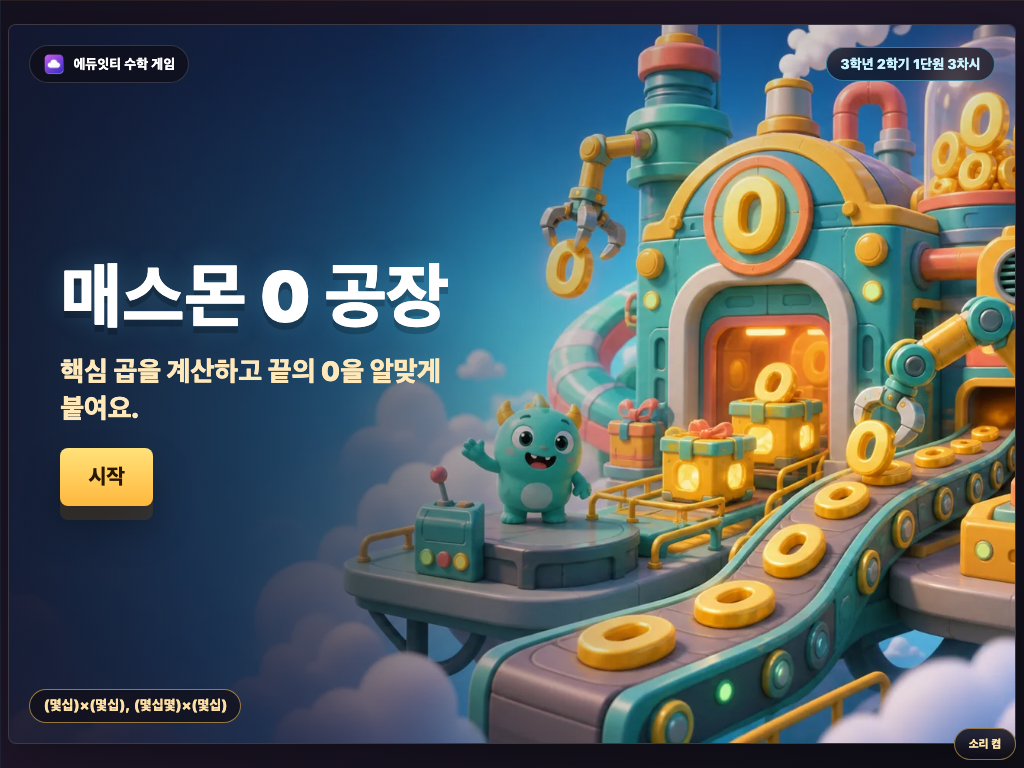
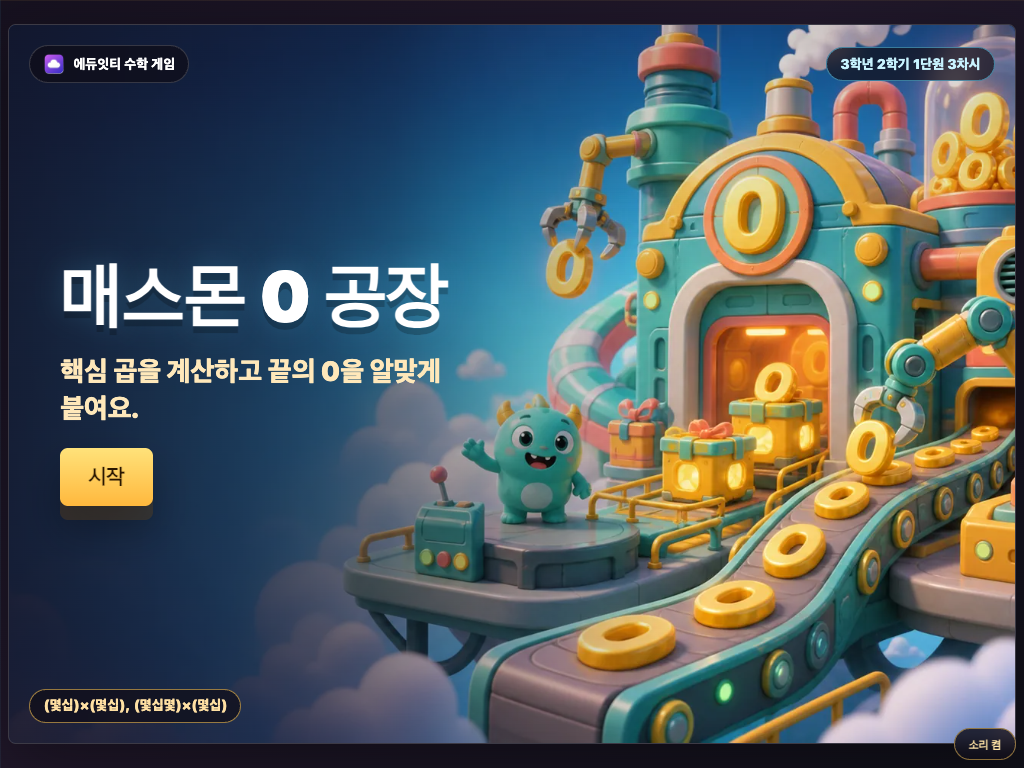
Use zero factory Mathmon pack

diff --git a/3-2-1-3-mathmon-zero-factory/index.html b/3-2-1-3-mathmon-zero-factory/index.html
@@ -2453,7 +2453,7 @@
             <div class="rocket-fin right"></div>
             <div class="rocket-flame"></div>
           </div>
-          <img class="cover-mathmon" src="mathmon-3-babydragonmon.png" alt="">
+          <img class="cover-mathmon" src="assets/mathmon/zero-factory-pack/mathmon-zf-03-conveymon.webp" alt="">
         </div>
       </div>
     </section>